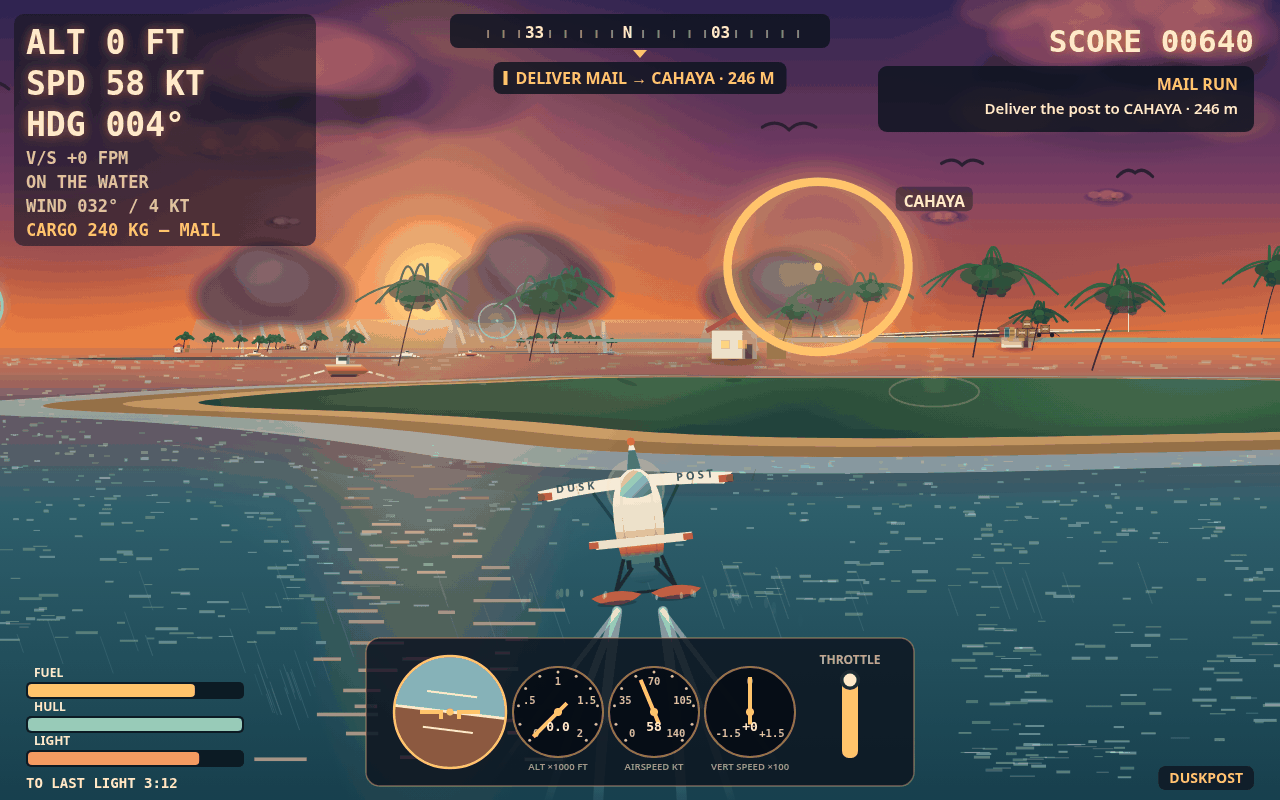
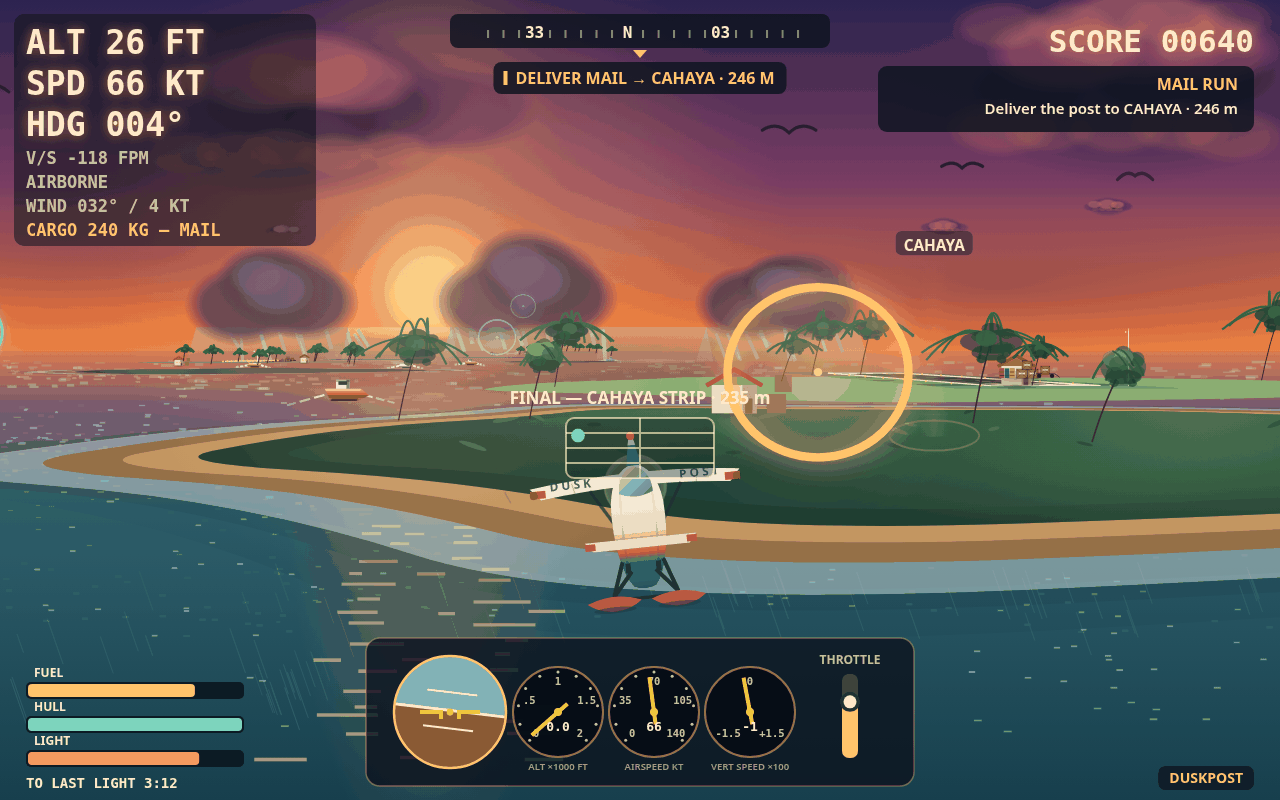
V46 steering revision: the cover flies (COVER-AIR), the flare burns (FLARE-BURST + PLUME-DENSE), one north on the chart

diff --git a/game/src/render.js b/game/src/render.js
@@ -5109,7 +5109,13 @@ function drawBoat(ctx, v, b, t) {
     // wide (V25 audit problem 9). Smaller radius (w×0.42) with a mid
     // stop for a steep falloff, and a bigger star, so the source
     // dominates and the warmth hugs it.
-    const glow = ctx.createRadialGradient(p.x, p.y - h * 2.6, 1, p.x, p.y - h * 2.6, w * 0.42);
+    // V46 FLARE-BURST: the label promises a flare and the frame
+    // must keep the promise — the glow widens (w×0.42 → w×0.55,
+    // its containing square grows with it, per the V23 rule
+    // below) and the star below gains a white-hot core and a
+    // four-point sparkle, so the source reads as a burning
+    // flare at full size and at judge size, not a dot.
+    const glow = ctx.createRadialGradient(p.x, p.y - h * 2.6, 1, p.x, p.y - h * 2.6, w * 0.55);
     glow.addColorStop(0, `rgba(255,120,40,${0.85 * flicker})`);
     glow.addColorStop(0.45, `rgba(255,120,40,${0.35 * flicker})`);
     glow.addColorStop(1, 'rgba(255,120,40,0)');
@@ -5122,11 +5128,24 @@ function drawBoat(ctx, v, b, t) {
     // it (V24: the radius shrank to w×0.55, so the square shrinks
     // with it — a 2w square would still contain it, but the rect is
     // the glow's own bounds now). (V25: radius w×0.42, same rule.)
-    ctx.fillRect(p.x - w * 0.42, p.y - h * 2.6 - w * 0.42, w * 0.84, w * 0.84);
+    ctx.fillRect(p.x - w * 0.55, p.y - h * 2.6 - w * 0.55, w * 1.1, w * 1.1);
     ctx.fillStyle = '#ffb35c';
+    ctx.beginPath();
+    ctx.arc(p.x, p.y - h * 2.6, Math.max(3.2, p.s * 1.4), 0, Math.PI * 2);
+    ctx.fill();
+    ctx.fillStyle = '#ffe9c9';
     ctx.beginPath();
     ctx.arc(p.x, p.y - h * 2.6, Math.max(1.6, p.s * 0.7), 0, Math.PI * 2);
     ctx.fill();
+    ctx.strokeStyle = `rgba(255,190,110,${0.75 * flicker})`;
+    ctx.lineWidth = Math.max(1.4, p.s * 0.16);
+    ctx.lineCap = 'round';
+    for (const [dx, dy] of [[1, 0], [-1, 0], [0, 1], [0, -1]]) {
+      ctx.beginPath();
+      ctx.moveTo(p.x + dx * p.s * 1.1, p.y - h * 2.6 + dy * p.s * 1.1);
+      ctx.lineTo(p.x + dx * p.s * 3.4, p.y - h * 2.6 + dy * p.s * 3.4);
+      ctx.stroke();
+    }
     // Smoke: a wisp, not coins — the flat-core softPuffs read as
     // stacked dark discs above the flare (V22 audit problem 4; V21's
     // own revision crop shows the same two discs its fix was meant to
@@ -5200,19 +5219,27 @@ function drawBoat(ctx, v, b, t) {
     // not smoke — too wide, too pale, drifting too far. A tighter
     // column: less growth, a darker head, less drift, so the column
     // keeps its shape all the way up.
-    for (let i = 0; i < 8; i += 1) {
-      const ph = (t * 0.16 + i / 8) % 1;
+    // V46 PLUME-DENSE: ten puffs instead of eight, a darker
+    // base (104,62,48) so the column's foot silhouettes on the
+    // bright horizon, a taller rise (h×3.8) so the head reaches
+    // the dark sky, and alpha 0.68 — the column the V43 ramp
+    // described, at a density the eye can hold. (The head is
+    // still a soft lens at full size; twenty versions of this
+    // element say the softness is structural. The flare burst
+    // above is what makes the frame's promise unmissable now.)
+    for (let i = 0; i < 10; i += 1) {
+      const ph = (t * 0.16 + i / 10) % 1;
       const hh = Math.sin(i * 12.9898 + 3.7) * 43758.5453;
       const jx = (hh - Math.floor(hh)) - 0.5;
-      const cr = Math.round(120 + ph * 52);
-      const cg = Math.round(80 + ph * 48);
-      const cb = Math.round(62 + ph * 50);
+      const cr = Math.round(104 + ph * 74);
+      const cg = Math.round(62 + ph * 78);
+      const cb = Math.round(48 + ph * 70);
       softPuff(
         ctx,
         p.x + jx * w * 0.22 + ph * w * 0.8,
-        p.y - h * 2.9 - ph * h * 3.0,
-        (6 + ph * 14) * p.s * 0.4,
-        `rgba(${cr},${cg},${cb},${0.58 * (1 - ph * 0.12)})`,
+        p.y - h * 2.9 - ph * h * 3.8,
+        (7 + ph * 19) * p.s * 0.4,
+        `rgba(${cr},${cg},${cb},${0.68 * (1 - ph * 0.12)})`,
         `rgba(${cr},${cg},${cb},0)`,
         0.8,
       );

diff --git a/game/src/shots.js b/game/src/shots.js
@@ -227,13 +227,19 @@ export function stageShot(name, seed) {
     game.light = 60;
     game.stats = { rings: 5, deliveries: 3, rescues: 1, crashes: 0 };
   } else {
-    // cover: WATER TAKEOFF south of Cahaya — on the step, spray flying,
-    // the next ring low over the water ahead-right, Cahaya's strip and
-    // lighthouse ahead, its mail aboard. The seaplane's defining verb
-    // in the large slot: no other cover in the field shows water ops.
-    // Staged on the water south of the island (the same water the old
-    // cruise cover flew over), so the sky keeps the hero clouds and
-    // the squall bank — only the plane's state and the ring change.
+    // cover: ON FINAL for Cahaya — airborne, low over the shore,
+    // the guidance ladder lit, the next ring ahead at flight
+    // height, its mail aboard. (Through V46's first build this
+    // was a water takeoff on the step; the main session's steer
+    // — verified against the frame — was that the dossier's
+    // large cell must show FLIGHT at first glance, not ALT 0 /
+    // ON THE WATER. The water work has not left the set: the
+    // rescue frame still floats on the water by the boat. Two
+    // airborne stagings were probed — work/v46/judge/
+    // cover-trio.jpg: high and close (island floods the frame
+    // as a green slab, dusk lost) vs low at the COVER-CLOSE-2
+    // distance (seascape kept, ladder armed, AIRBORNE on the
+    // panel); the low one stands.)
     const isl = world.islands[3]; // CAHAYA
     // V44 COVER-CLOSE: staged 130 m closer (was isl.z - 430) so
     // Cahaya reads as a destination landmass — beach, palms, house,
@@ -249,26 +255,31 @@ export function stageShot(name, seed) {
     // frame (at this zoom it sits past the right edge either way),
     // so the bolder staging stands; the HUD distance reads an
     // honest 246 m. Gameplay untouched.
+    // V46 COVER-AIR (steering revision): the same distance, now
+    // flown — 8 m up (the panel reads ALT 26 FT / AIRBORNE /
+    // V/S −118 FPM), on a gentle descent to the strip, the
+    // guidance ladder armed. Probe-proven before the edit
+    // (work/v46/probe-raw/cover-airB.png).
     plane.x = isl.x - 74;
     plane.z = isl.z - 235;
-    plane.y = 0;
+    plane.y = 8;
     plane.hdg = 0.07;
-    plane.speed = 30;
-    plane.throttle = 1.0;
-    plane.vy = 0;
+    plane.speed = 34;
+    plane.throttle = 0.72;
+    plane.vy = -0.6;
     plane.bank = -0.12;
-    plane.airborne = false;
-    plane.onWater = true;
-    plane.spray = 1; // on the step: the floats are throwing water
+    plane.airborne = true;
+    plane.onWater = false;
+    plane.spray = 0; // airborne: no spray — the sea is below her
     plane.fuel = 78;
     plane.cargoKg = 240; // Cahaya's mail is in the back
     // Rings south of here are already threaded on this run; the next
-    // one hangs low over the water ahead-right, big in the frame — a
-    // gate to climb through off the water, not a halo dead centre.
+    // one hangs at flight height over the shore ahead-right, big in
+    // the frame — a gate on the final, not a halo dead centre.
     for (const r of world.rings) if (r.z < plane.z) r.passed = true;
     const ring = world.rings.find((r) => !r.passed && r.z > plane.z) || world.rings[3];
     ring.x = plane.x + 30;
-    ring.y = 18;
+    ring.y = 14;
     ring.z = plane.z + 130;
     // V22: two far rings overlap into a bubble Venn mid-frame
     // (audit problem 5). Separate any pair whose projected rims

diff --git a/game/src/debrief.js b/game/src/debrief.js
@@ -305,17 +305,9 @@ export function drawRouteMap(ctx, world, game, plane, t) {
     ctx.fillText('RESCUE BOAT', lx, ly);
   }
 
-  // Compass + scale bar.
-  ctx.fillStyle = '#ffe9c9';
-  ctx.font = '700 20px system-ui, sans-serif';
-  ctx.textAlign = 'center';
-  ctx.fillText('N', 1150, 182);
-  ctx.beginPath();
-  ctx.moveTo(1150, 188);
-  ctx.lineTo(1144, 204);
-  ctx.lineTo(1156, 204);
-  ctx.closePath();
-  ctx.fill();
+  // Scale bar. (V46: the chart carried TWO north marks — this
+  // corner N and the compass rose's own N in the band above.
+  // The rose is the chart's north; the corner mark is gone.)
   ctx.strokeStyle = '#ffe9c9';
   ctx.lineWidth = 3;
   ctx.beginPath();
